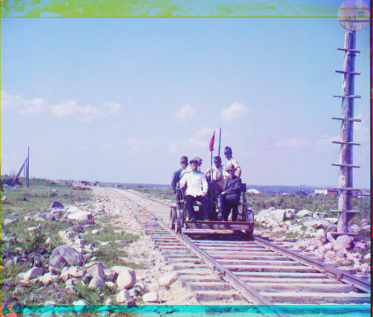
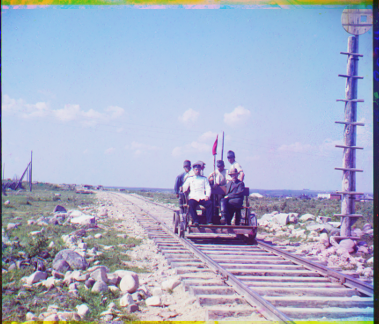
c

diff --git a/main.py b/main.py
@@ -3,62 +3,66 @@ from skimage import img_as_float
 from matplotlib import pyplot as plp
 import numpy as np
 
+
+def border_cut(img, cut_procent):
+    cut_procent = cut_procent / 100
+
+    border_y = int(img.shape[0] * cut_procent)
+    border_x = int(img.shape[1] * cut_procent)
+
+    img = img[border_y: img.shape[0] - border_y, border_x: img.shape[1] - border_x]
+
+    return img
+
+
 original_img = imread("00.png")
 
 imshow(original_img)
 plp.show()
 
-row_g, col_g = 508, 237
-
-print(original_img[row_g,col_g])
 original_img_f = img_as_float(original_img)
 
-border_y = int(original_img_f.shape[0] * 0.03)
-border_x = int(original_img_f.shape[1] * 0.03)
+# Обрезаем белую рамку.
+#cropped_im = border_cut(original_img_f, 3)
+cropped_im = original_img_f.copy()
 
-cropped_im = original_img_f[border_y:original_img_f.shape[0] - border_y, border_x:original_img_f.shape[1] - border_x]
-
+# Разделяем на 3 канала.
 channel_row_cut = int(cropped_im.shape[0] // 3)
-
 b = cropped_im[: channel_row_cut, :]
 g = cropped_im[channel_row_cut: 2 * channel_row_cut, :]
 r = cropped_im[2 * channel_row_cut: 3 * channel_row_cut, :]
 
-border_y_b = int(b.shape[0] * 0.03)
-border_x_b = int(b.shape[1] * 0.03)
+original_size = b.shape
+print(b.shape)
+print(r.shape)
+print(g.shape)
 
-border_y_r = int(r.shape[0] * 0.03)
-border_x_r = int(r.shape[1] * 0.03)
 
-border_y_g = int(g.shape[0] * 0.03)
-border_x_g = int(g.shape[1] * 0.03)
+# Обрезаем рамки.
+b = border_cut(b, 5)
+r = border_cut(r, 5)
+g = border_cut(g, 5)
 
-b = b[border_y_b: b.shape[0] - border_y_b, border_x_b:b.shape[1] - border_x_b]
-r = r[border_y_r: r.shape[0] - border_y_r, border_x_r:r.shape[1] - border_x_r]
-g = g[border_y_g: g.shape[0] - border_y_g, border_x_g:g.shape[1] - border_x_g]
-
+# Сдвигаем изображение.
 shift_b = [0, 0, float('-inf')]
 shift_r = [0, 0, float('-inf')]
+shift_count = 25
 
-shift = 20
 
-for x in range(-shift, shift + 1):
-    for y in range(-shift, shift + 1):
-        t_b = np.roll(b, x, axis=0).copy()
-        t_b = np.roll(t_b, y, axis=1).copy()
-        correlation = (t_b * g).sum()
+def image_shift(img, shift_data, shift):
+    for x in range(-shift, shift + 1):
+        for y in range(-shift, shift + 1):
+            temp = np.roll(img, x, axis=0).copy()
+            temp = np.roll(temp, y, axis=1).copy()
+            correlation = (temp * g).sum()
 
-        if correlation > shift_b[2]:
-            shift_b = [x, y, correlation]
+            if correlation > shift_data[2]:
+                shift_data = [x, y, correlation]
+    return shift_data
 
-for x in range(-shift, shift + 1):
-    for y in range(-shift, shift + 1):
-        t_r = np.roll(r, x, axis=0).copy()
-        t_r = np.roll(t_r, y, axis=1).copy()
-        correlation = (t_r * g).sum()
 
-        if correlation > shift_r[2]:
-            shift_r = [x, y, correlation]
+shift_b = image_shift(b, shift_b, shift_count)
+shift_r = image_shift(r, shift_r, shift_count)
 
 b = np.roll(b, shift_b[0], axis=0)
 b = np.roll(b, shift_b[1], axis=1)
@@ -66,19 +70,24 @@ b = np.roll(b, shift_b[1], axis=1)
 r = np.roll(r, shift_r[0], axis=0)
 r = np.roll(r, shift_r[1], axis=1)
 
-
 print(b.shape)
 print(r.shape)
 print(g.shape)
 
-
 ans = np.dstack((r, g, b))
 print(shift_b, shift_r)
 
-
-
 imshow(ans)
-
 imsave("ans.png", ans)
+
+row_g, col_g = 508, 237
+
+row_b = row_g - original_size[0] - shift_b[0]
+col_b = col_g - shift_b[1]
+
+row_r = original_size[0] * 2 + (row_g - original_size[0]) - shift_r[0]
+col_r = col_g - shift_r[1]
+
+print(row_b, col_b, row_r, col_r)
 
 plp.show()

diff --git a/algin.py b/algin.py
@@ -1,25 +1,74 @@
+from skimage.io import imread
+from skimage import img_as_float
+import numpy as np
+
+
 def align(img, g_coord):
+    row_g, col_g = g_coord
 
-    if g_coord == (508, 237):
-        return  ((153, 237), (858, 238))
-    if g_coord == (483, 218):
-        return  ((145, 219), (817, 218))
-    if g_coord == (557, 141) :
-        return  ((204, 143), (908, 140))
-    if g_coord  == (627, 179)  :
-        return   ((243, 179), (1010, 176))
-    if g_coord== (540, 96):
-        return   ((154, 95), (922, 94))
-    if g_coord == (641, 369) :
-        return  ((258, 372), (1021, 368))
-    if g_coord == (527, 196)  :
-        return  ((144, 198), (908, 193))
-    if g_coord == (430, 140):
-        return ((82, 140), (777, 141))
-    if g_coord == (502, 254)  :
-        return ((123, 259), (880, 251))
-    if g_coord== (493, 238):
-        return  ((114, 240), (871, 235))
+    def border_cut(img, cut_procent):
+        cut_procent = cut_procent / 100
+
+        border_y = int(img.shape[0] * cut_procent)
+        border_x = int(img.shape[1] * cut_procent)
+
+        img = img[border_y: img.shape[0] - border_y, border_x: img.shape[1] - border_x]
+
+        return img
+
+    original_img = img
+
+    original_img_f = img_as_float(original_img)
+
+    # Обрезаем белую рамку.
+    # cropped_im = border_cut(original_img_f, 3)
+    cropped_im = original_img_f.copy()
+
+    # Разделяем на 3 канала.
+    channel_row_cut = int(cropped_im.shape[0] // 3)
+    b = cropped_im[: channel_row_cut, :]
+    g = cropped_im[channel_row_cut: 2 * channel_row_cut, :]
+    r = cropped_im[2 * channel_row_cut: 3 * channel_row_cut, :]
+
+    original_size = b.shape
+
+    # Обрезаем рамки.
+    b = border_cut(b, 5)
+    r = border_cut(r, 5)
+    g = border_cut(g, 5)
+
+    # Сдвигаем изображение.
+    shift_b = [0, 0, float('-inf')]
+    shift_r = [0, 0, float('-inf')]
+    shift_count = 25
+
+    def image_shift(img, shift_data, shift):
+        for x in range(-shift, shift + 1):
+            for y in range(-shift, shift + 1):
+                temp = np.roll(img, x, axis=0).copy()
+                temp = np.roll(temp, y, axis=1).copy()
+                correlation = (temp * g).sum()
+
+                if correlation > shift_data[2]:
+                    shift_data = [x, y, correlation]
+        return shift_data
+
+    shift_b = image_shift(b, shift_b, shift_count)
+    shift_r = image_shift(r, shift_r, shift_count)
+
+    b = np.roll(b, shift_b[0], axis=0)
+    b = np.roll(b, shift_b[1], axis=1)
+
+    r = np.roll(r, shift_r[0], axis=0)
+    r = np.roll(r, shift_r[1], axis=1)
+
+    row_b = row_g - original_size[0] - shift_b[0]
+    col_b = col_g - shift_b[1]
+    row_r = original_size[0] * 2 + (row_g - original_size[0]) - shift_r[0]
+    col_r = col_g - shift_r[1]
+
+    return (row_b, col_b), (row_r, col_r)
 
 
-print(align('https://stepik.org/media/attachments/lesson/58182/00.png', (1,3)))
+im = imread("00.png")
+print(align(im, (508, 237)))
